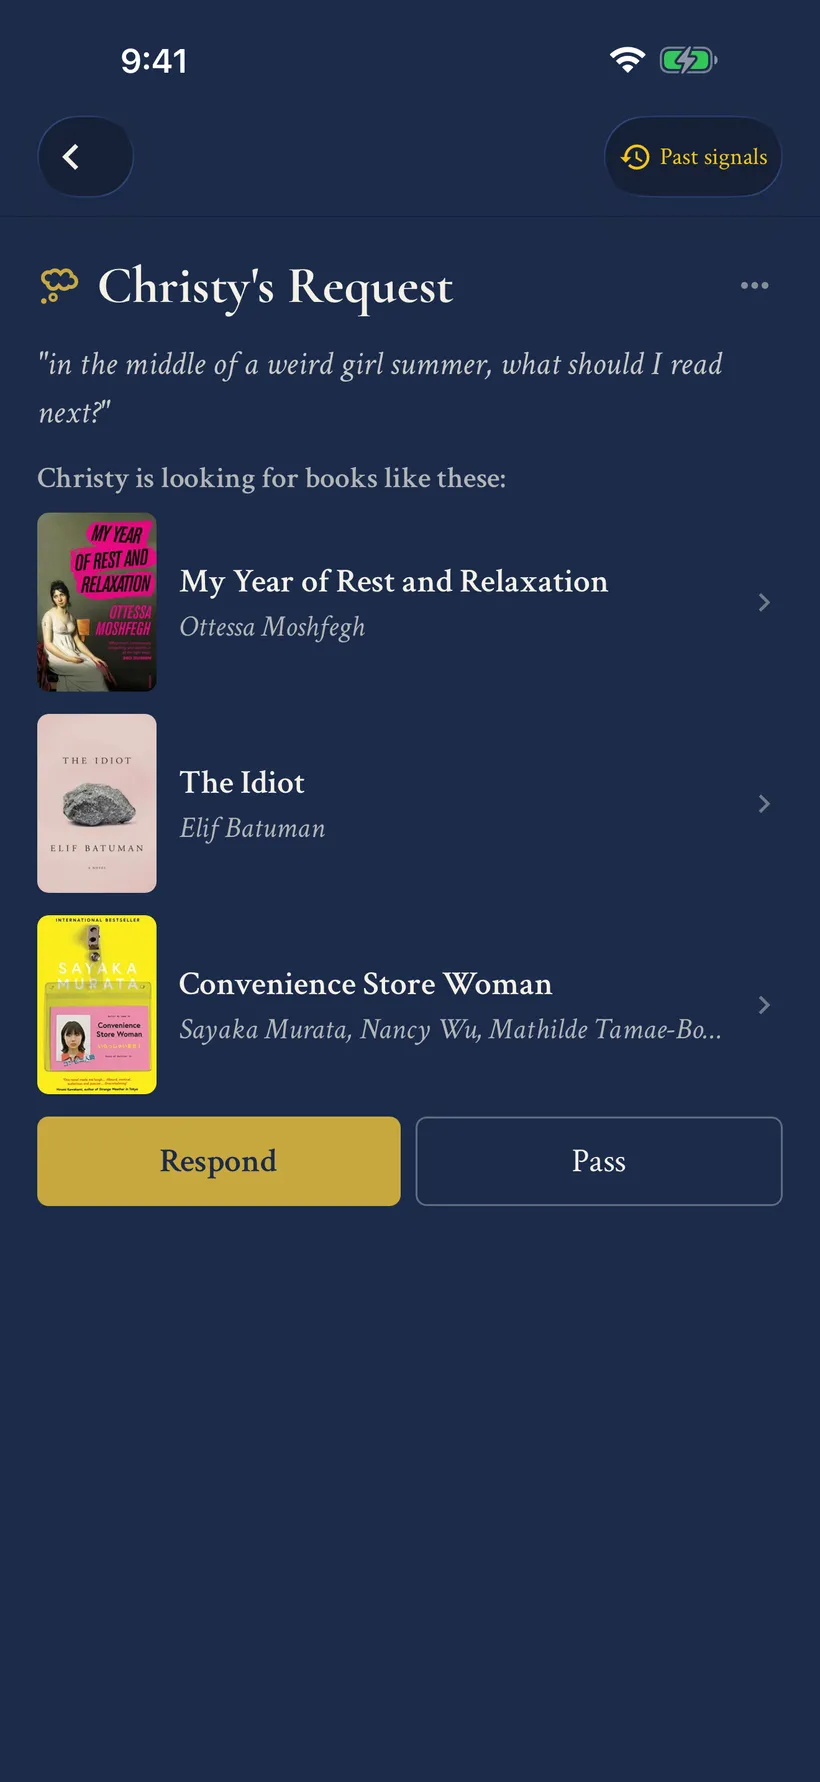
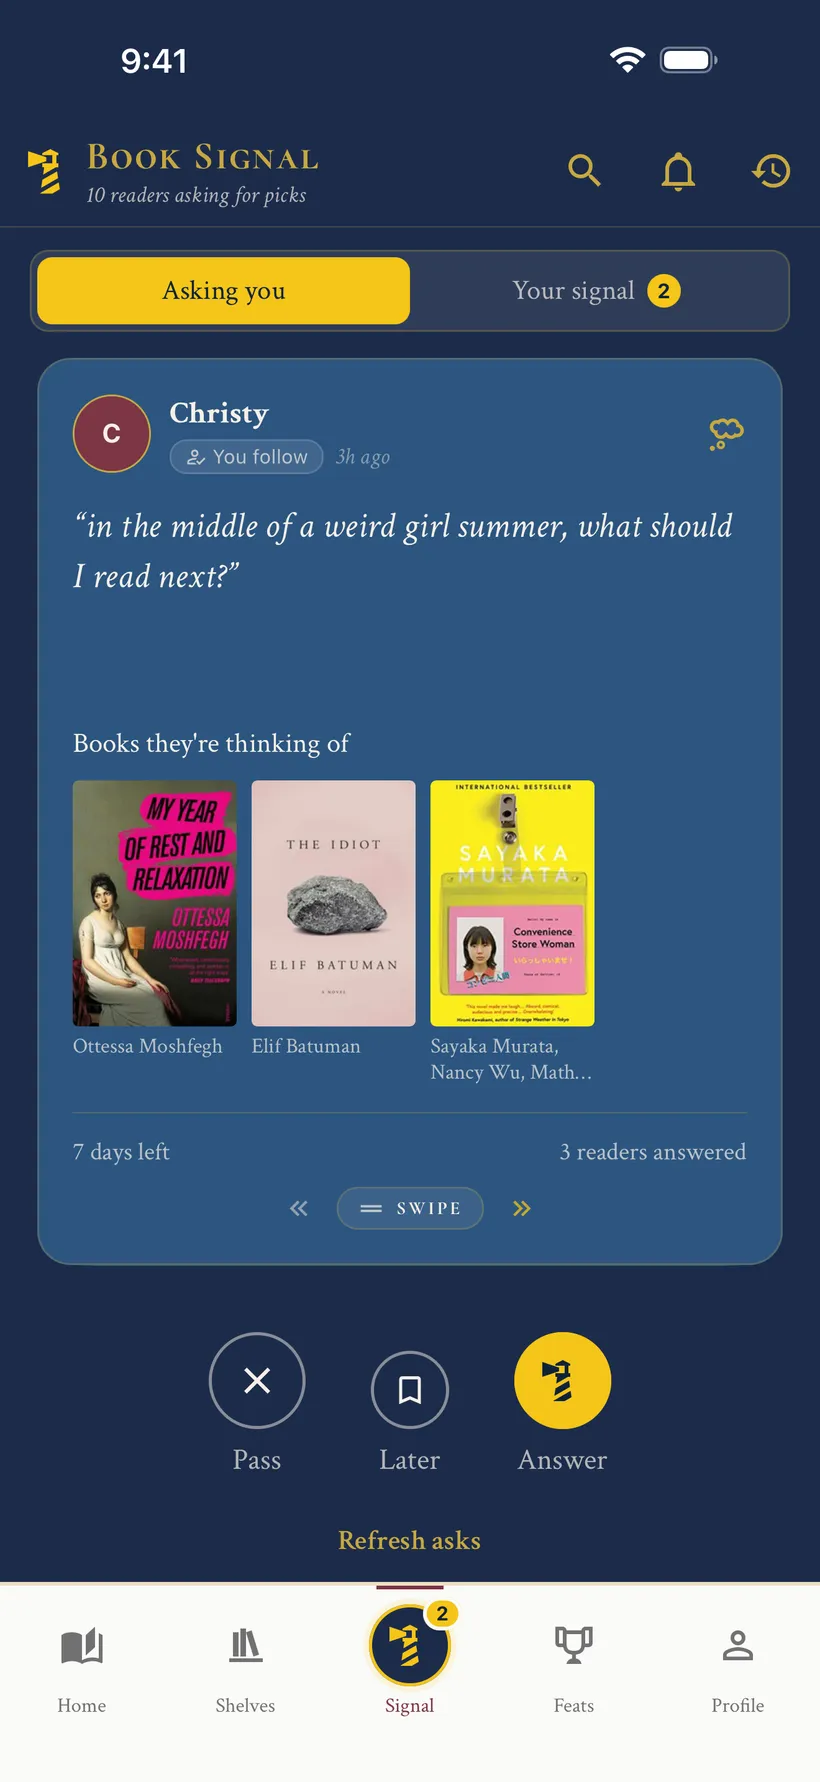
fix: use ShelfLife homepage carousel screenshots

diff --git a/projects/web/src/components/Portfolio.tsx b/projects/web/src/components/Portfolio.tsx
@@ -85,8 +85,8 @@ export default function Portfolio() {
                 </div>
                 <div className="product-screenshots">
                   <img
-                    src="/portfolio/shelflife-home-feed.webp"
-                    alt="ShelfLife home feed"
+                    src="/portfolio/shelflife-shelf-canvas.webp"
+                    alt="ShelfLife shelf canvas with book spines, stacks and decor"
                     className="product-photo"
                     loading="eager"
                     decoding="async"
@@ -94,8 +94,8 @@ export default function Portfolio() {
                     height={1782}
                   />
                   <img
-                    src="/portfolio/shelflife-shelf-export.webp"
-                    alt="ShelfLife shelf export"
+                    src="/portfolio/shelflife-home-feed.webp"
+                    alt="ShelfLife home feed"
                     className="product-photo"
                     loading="lazy"
                     decoding="async"
@@ -104,7 +104,7 @@ export default function Portfolio() {
                   />
                   <img
                     src="/portfolio/shelflife-book-signal.webp"
-                    alt="ShelfLife Book Signal"
+                    alt="ShelfLife Book Signal hub with requests from other readers"
                     className="product-photo"
                     loading="lazy"
                     decoding="async"

diff --git a/docs/design/portfolio-v5.html b/docs/design/portfolio-v5.html
@@ -98,9 +98,9 @@
                         <a class="D-pl" href="https://theshelflifeapp.com">theshelflifeapp.com →</a>
                       </div>
                       <div class="D-shots">
+                        <img class="ph" src="../../projects/web/public/portfolio/shelflife-shelf-canvas.webp" alt="ShelfLife shelf canvas with book spines, stacks and decor" />
                         <img class="ph" src="../../projects/web/public/portfolio/shelflife-home-feed.webp" alt="ShelfLife home feed" />
-                        <img class="ph" src="../../projects/web/public/portfolio/shelflife-shelf-export.webp" alt="ShelfLife shelf export" />
-                        <img class="ph" src="../../projects/web/public/portfolio/shelflife-book-signal.webp" alt="ShelfLife Book Signal" />
+                        <img class="ph" src="../../projects/web/public/portfolio/shelflife-book-signal.webp" alt="ShelfLife Book Signal hub with requests from other readers" />
                       </div>
 <div class="D-proof"><div><p class="D-proofv">4.8★</p><p>App Store rating</p></div><div><p class="D-proofv">~3,500</p><p>installs in the two months after v1</p></div></div>
                     </div>

diff --git a/docs/design/README.md b/docs/design/README.md
@@ -8,4 +8,4 @@ The existing The City and Worship routes and their assets remain available throu
 
 The TSX component uses a colocated scoped Portfolio.css stylesheet.
 
-ShelfLife images match the three files used by the marketing download page in `fisherbird-shelf/apps/marketing`: `screenshot-home-feed-02.webp`, `screenshot-shelf-export-02.webp`, and `screenshot-book-signal.webp`. The standalone prototype references the same local assets.
+ShelfLife images match the first three carousel images on the marketing homepage, defined in `fisherbird-shelf/apps/marketing/src/components/Showcase.astro`: `screens/shelf-canvas.webp`, `screens/home-feed.webp`, and `screens/signal-hub.webp`, in that order. The standalone prototype references the same local assets.
